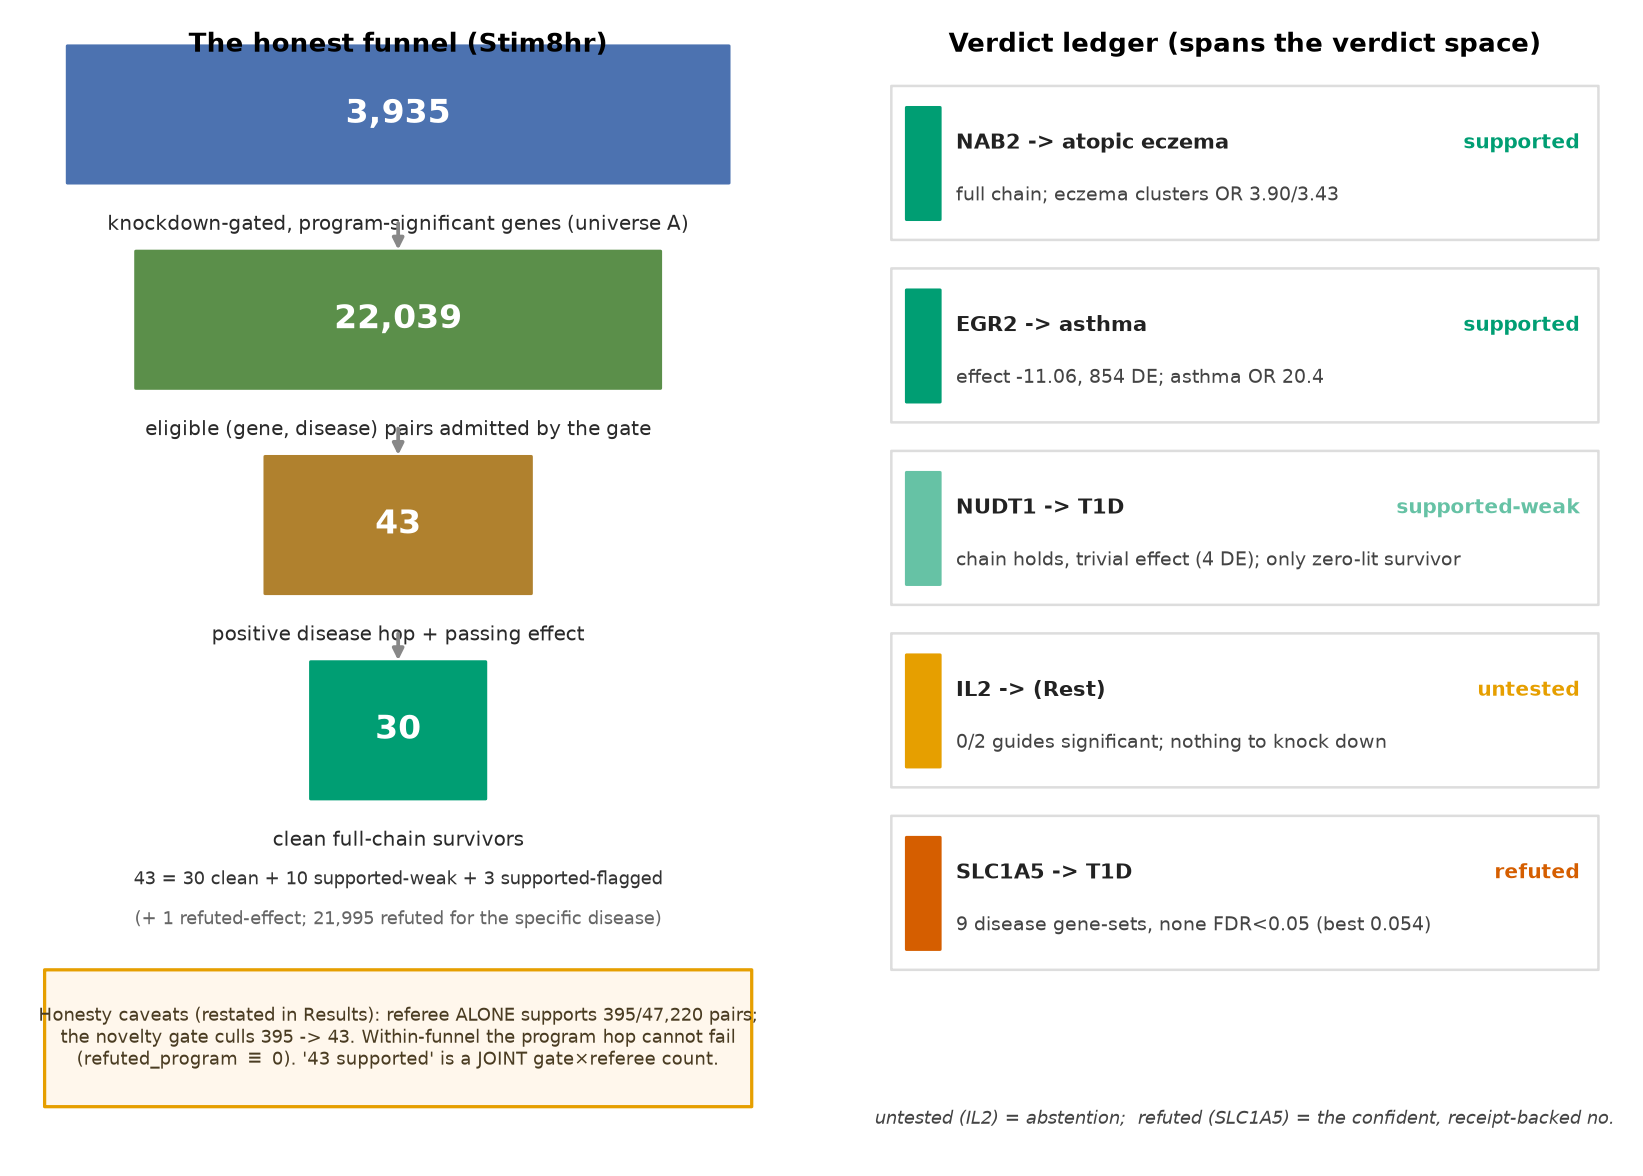
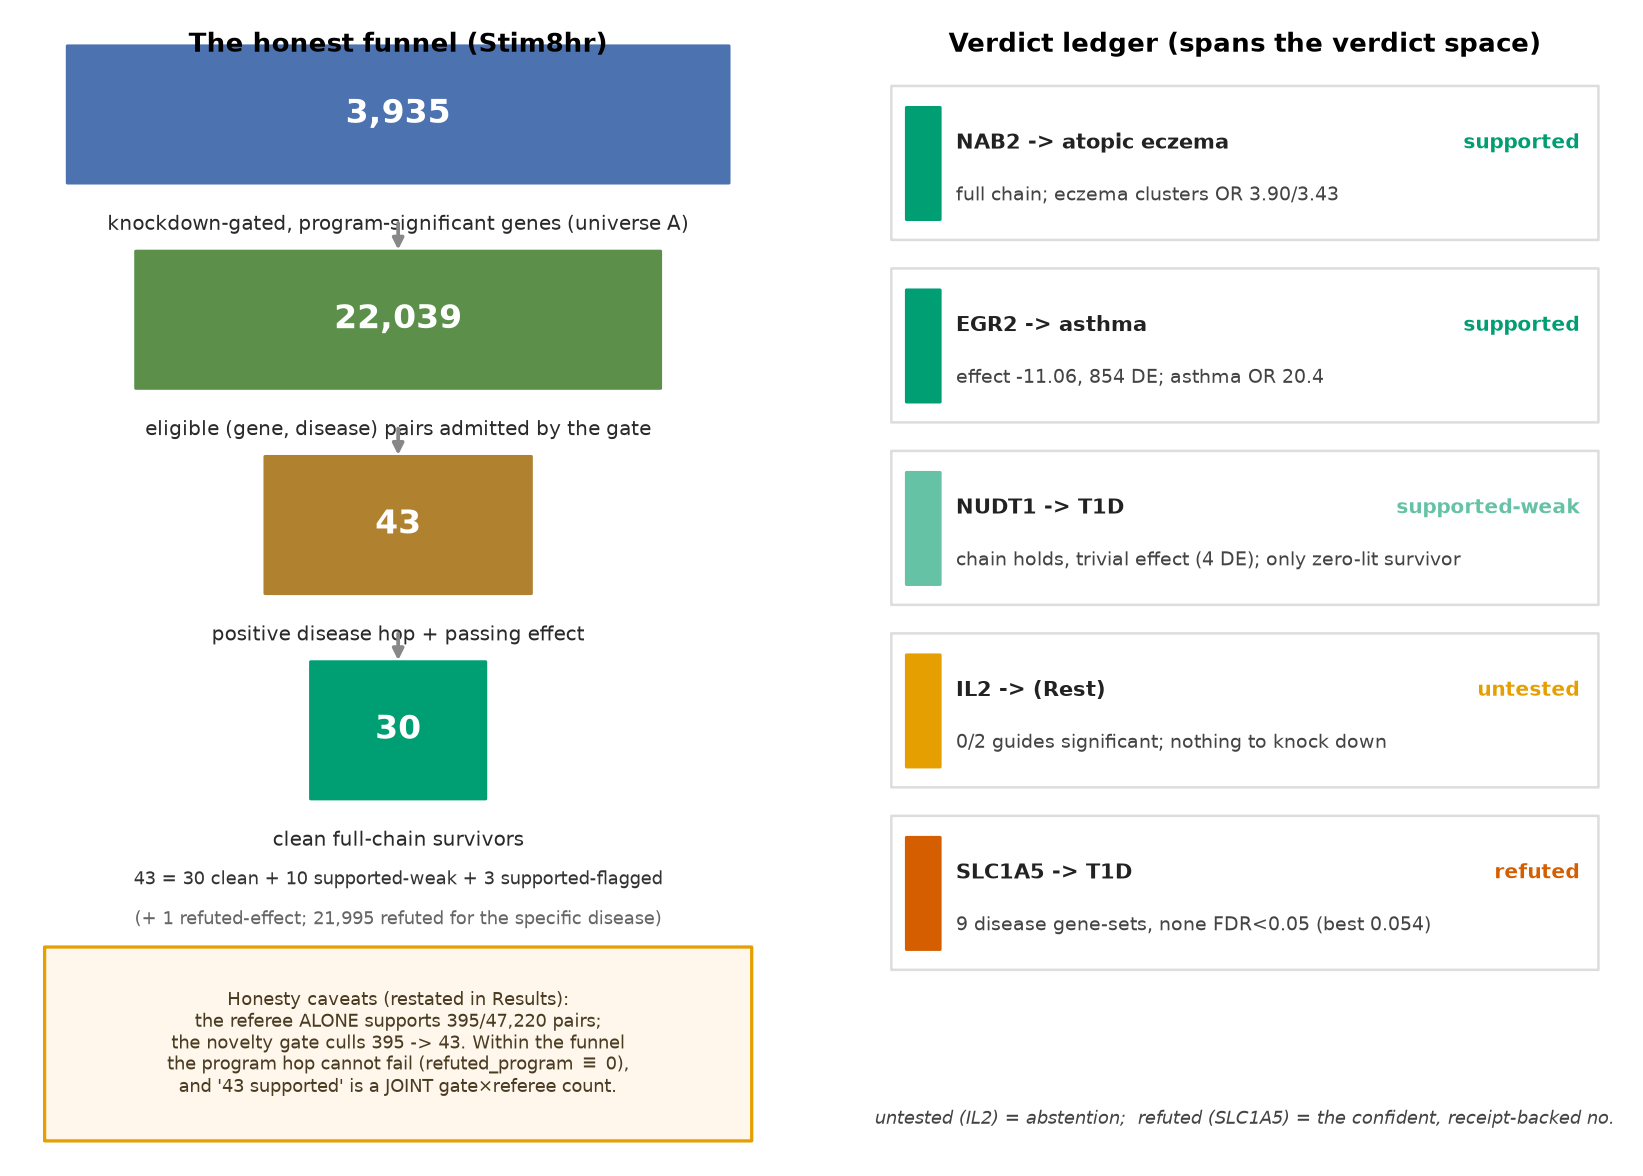
manuscript: indent abstract + first-paragraph-after-heading; fix Fig 2 caveat-box overflow
- Add \usepackage{indentfirst} so the FIRST paragraph after every heading is
  indented too (e.g. the Introduction's opening paragraph), per the requested rule.
- Remove \noindent from the abstract paragraphs so they get the first-line indent
  (Keywords stays flush as a run-in bold heading).
- Fig 2: the Honesty-caveats box text was overflowing its border after the earlier
  font bump; rebroke it into 5 shorter lines at fs 7.0 in a taller box so nothing
  crosses the border. Verified all three in the compiled PDF (32pp, 0 errors).

Changed region(s): [[0.031, 0.7959, 0.4656, 0.9796]]

diff --git a/docs/manuscript/latex/figures/make_figures.py b/docs/manuscript/latex/figures/make_figures.py
@@ -172,11 +172,13 @@ def fig2():
              fontsize=7.4, color="#333333")
     gsL.text(50, 20.5, "(+ 1 refuted-effect; 21,995 refuted for the specific disease)", ha="center",
              fontsize=7.1, color="#666666")
-    box(gsL, 4, 5, 92, 11,
-        "Honesty caveats (restated in Results): referee ALONE supports 395/47,220 pairs;\n"
-        "the novelty gate culls 395 -> 43. Within-funnel the program hop cannot fail\n"
-        "(refuted_program $\\equiv$ 0). '43 supported' is a JOINT gate$\\times$referee count.",
-        fc="#FFF7EC", ec=C_UNTESTED, fs=7.3, tc="#4A3C22", rounded=0.03)
+    box(gsL, 4, 2, 92, 16,
+        "Honesty caveats (restated in Results):\n"
+        "the referee ALONE supports 395/47,220 pairs;\n"
+        "the novelty gate culls 395 -> 43. Within the funnel\n"
+        "the program hop cannot fail (refuted_program $\\equiv$ 0),\n"
+        "and '43 supported' is a JOINT gate$\\times$referee count.",
+        fc="#FFF7EC", ec=C_UNTESTED, fs=7.0, tc="#4A3C22", rounded=0.03)
 
     gsR.text(50, 97, "Verdict ledger (spans the verdict space)", ha="center", fontsize=10.5, weight="bold")
     rows = [

diff --git a/docs/manuscript/latex/main.tex b/docs/manuscript/latex/main.tex
@@ -31,6 +31,7 @@
 \titlespacing*{\section}{0pt}{10pt}{4pt}
 \titlespacing*{\subsection}{0pt}{6pt}{2pt}
 \titlespacing*{\subsubsection}{0pt}{4pt}{0.5em}
+\usepackage{indentfirst}  % indent the first paragraph after every heading too
 
 % --- math / tables / figures / links ---
 \usepackage{amsmath}
@@ -62,13 +63,12 @@
 \maketitle
 
 \begin{abstract}
-\noindent
 Literature-based discovery (LBD) connects facts that are individually established but never joined, and
 four decades of work have made it a prolific generator of hypotheses. Its persistent weakness is not
 generation but triage: an LBD search returns far more candidate links than any laboratory can pursue, and
 ranking by literature-rarity tracks obscurity as readily as importance.
 
-\vspace{2pt}\noindent
+\vspace{2pt}
 We present \textbf{Wayfinder}, an approach that addresses this gap by pairing LBD generation with a
 deterministic referee that evaluates each proposed \emph{gene $\rightarrow$ T-cell program $\rightarrow$
 disease} hypothesis against a held experimental substrate --- a genome-scale CRISPRi Perturb-seq resource in
@@ -80,7 +80,7 @@ answer a confident, receipt-backed \emph{no} --- a \emph{falsification} diagnost
 \emph{refuted} hypothesis from an \emph{untested} one, an explicit \emph{abstention}: a failed knockdown is
 reported as untested, an artifact caught rather than a false negative recorded.
 
-\vspace{2pt}\noindent
+\vspace{2pt}
 The entire loop --- generation, evidence integration, and provenance --- ran inside an agentic scientific
 workbench in which an independent critic model enforced calibrated \emph{language} on the platform's own
 output, and its analyses reproduced when the workbench was driven programmatically --- the pipeline's funnel